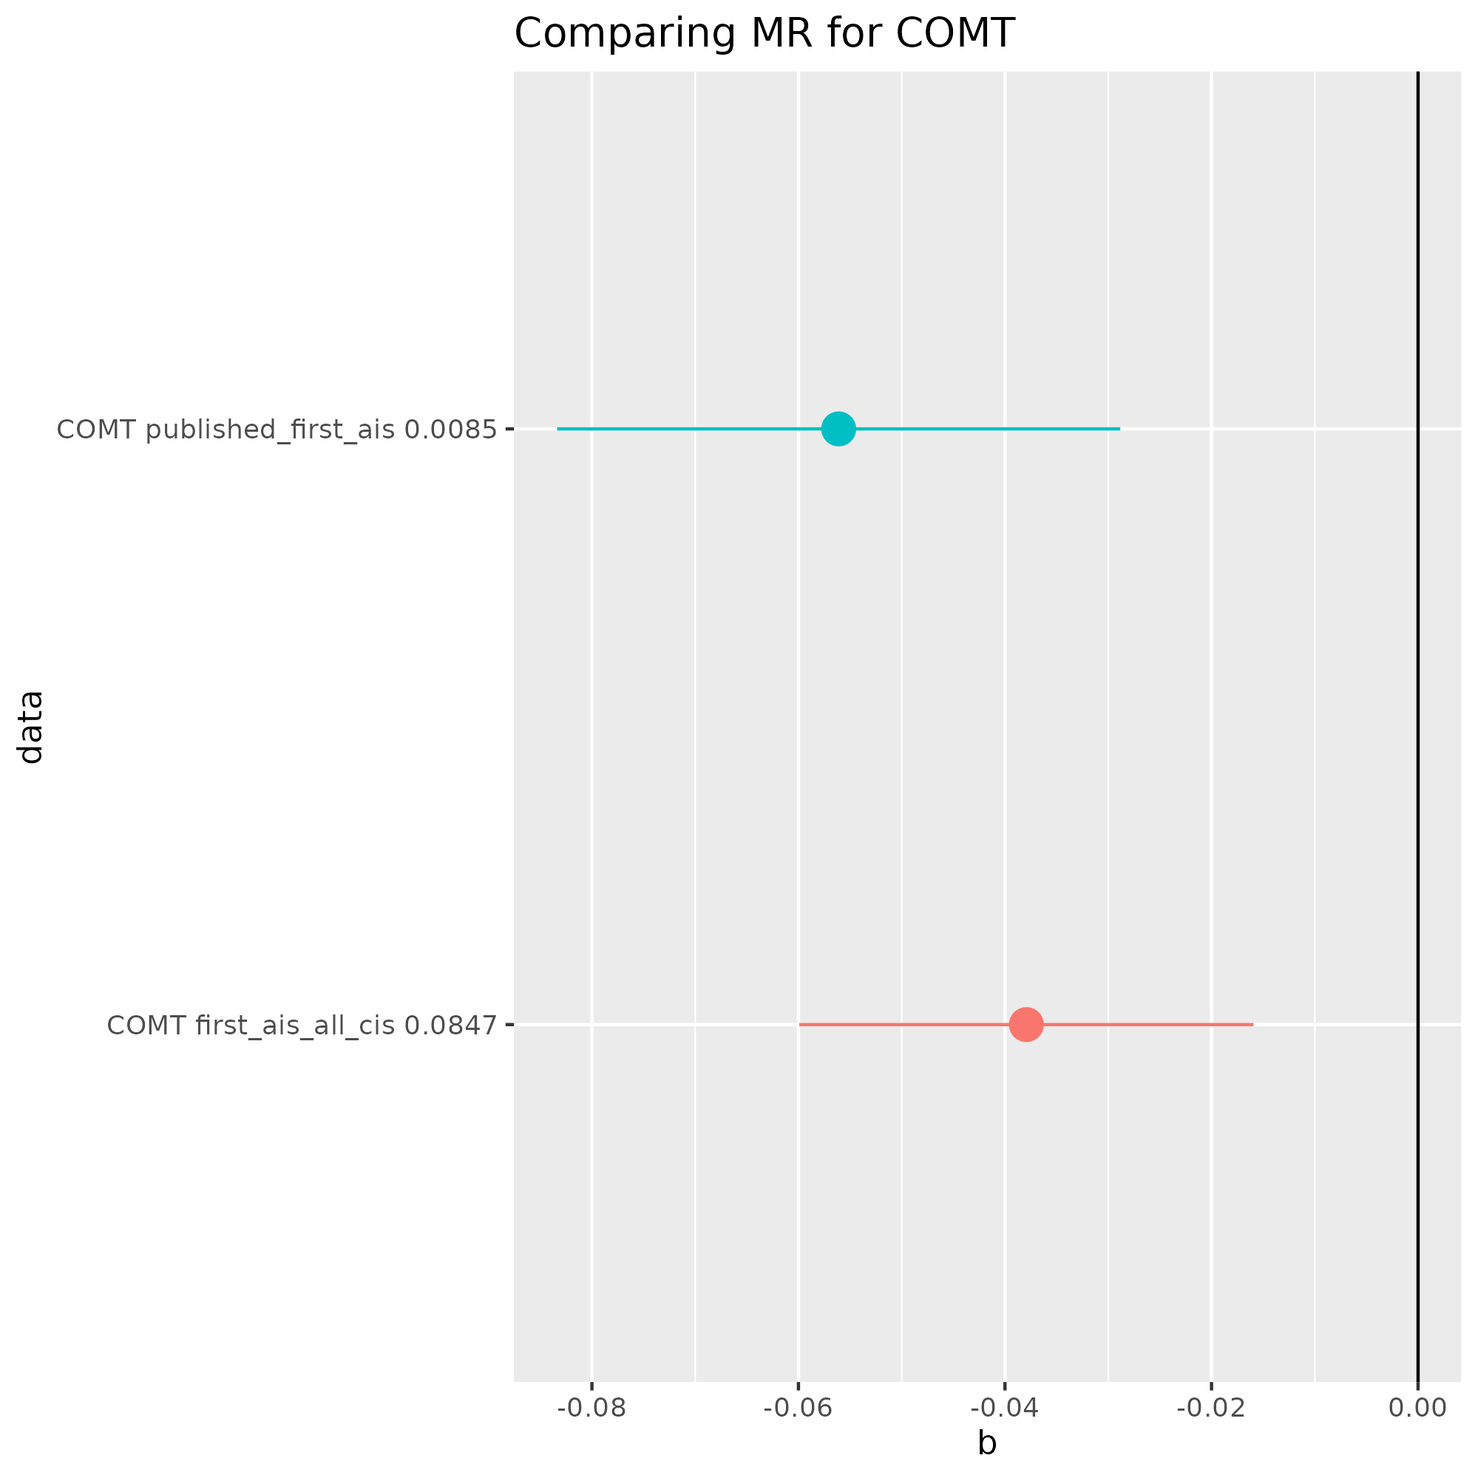
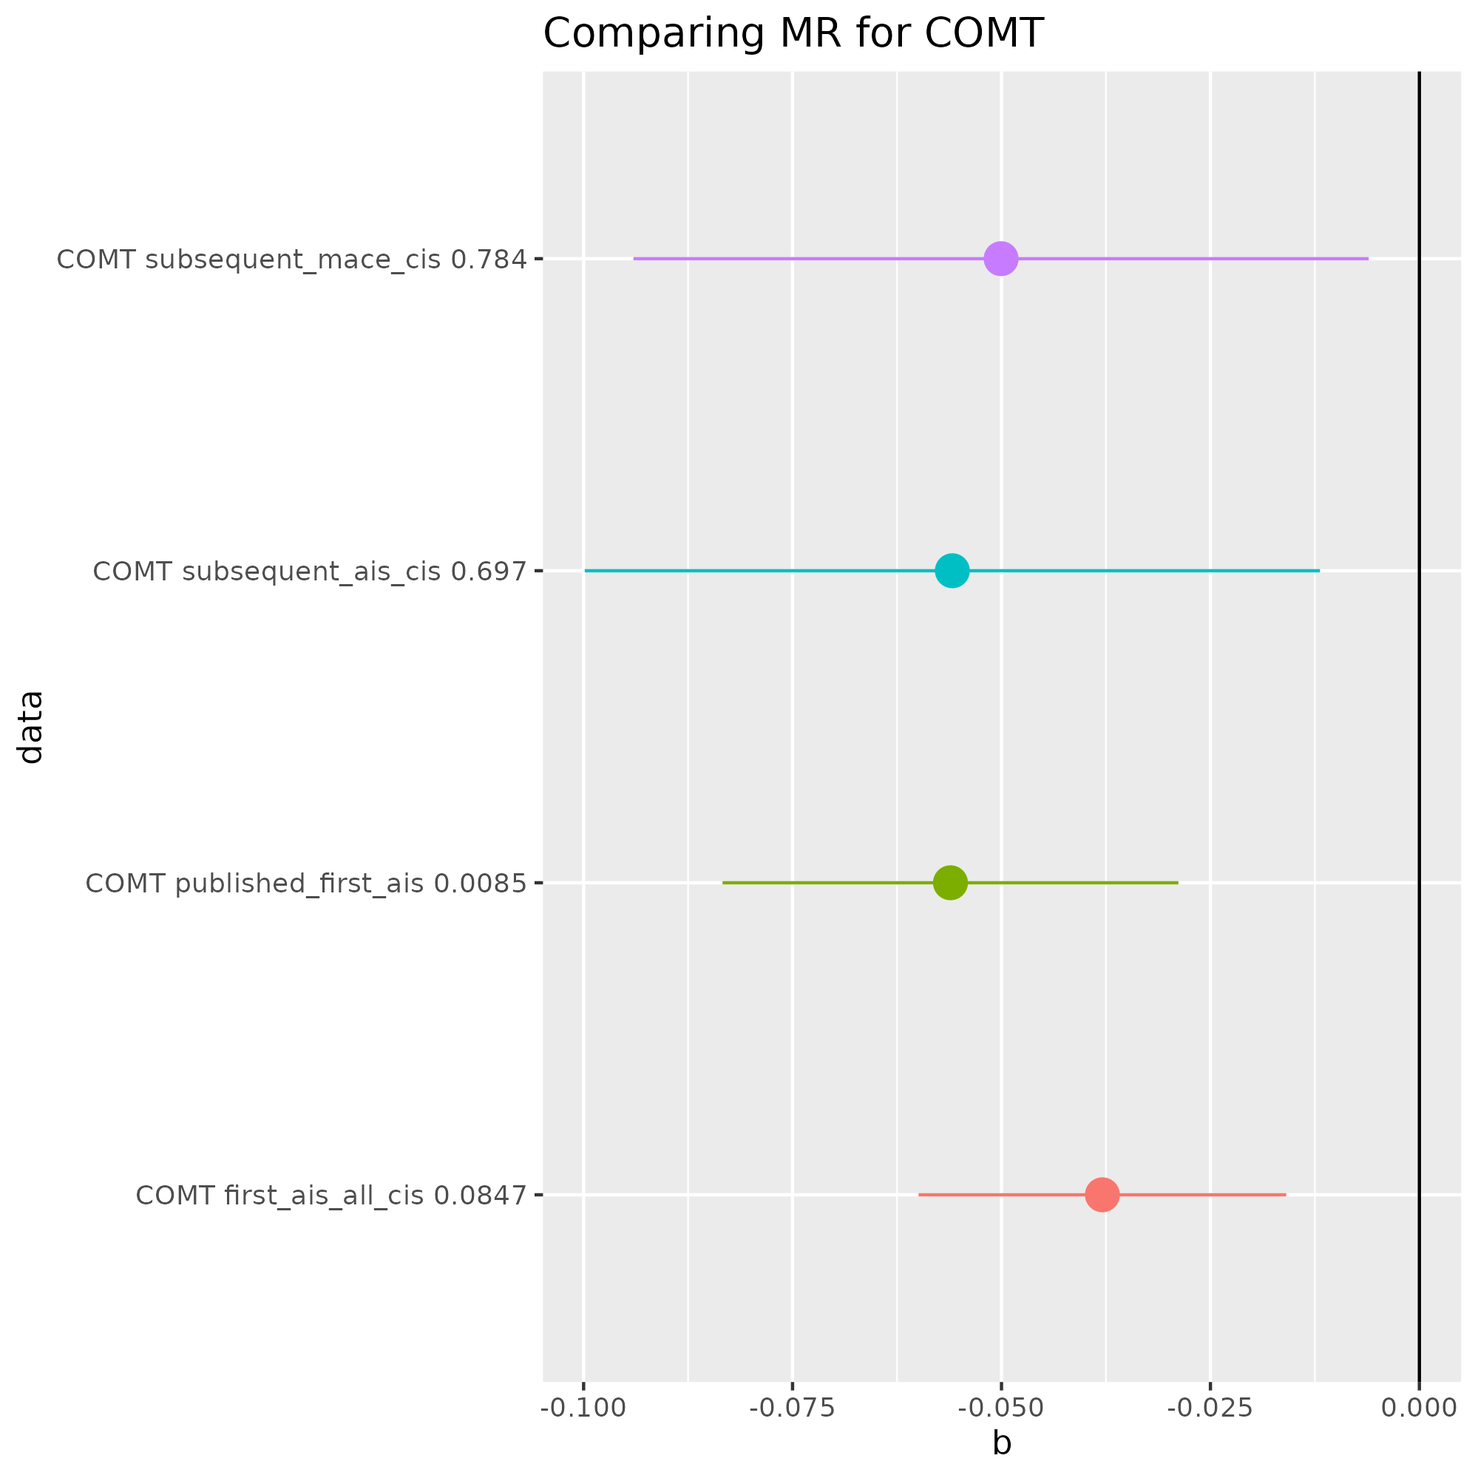
Updating forest plots on intresting_pqtls page

diff --git a/docs/interesting_pqtls.html b/docs/interesting_pqtls.html
@@ -14639,23 +14639,23 @@ body[data-format='mobile'] .jp-OutputArea-child .jp-OutputArea-output {
 <tbody>
 <tr>
   <td><img src="scratch/results/plots/forest_plots/SCARA5_mr.png" alt="alt" /></td>
-  <td><img src="scratch/results/plots/forest_plots/PFKFB2_mr.png" alt="alt" /></td>
+  <td><img src="scratch/results/plots/forest_plots/FURIN_mr.png" alt="alt" /></td>
 </tr>
 <tr>
   <td><img src="scratch/results/plots/forest_plots/MMP12_mr.png" alt="alt" /></td>
-  <td><img src="scratch/results/plots/forest_plots/KLK1_mr.png" alt="alt" /></td>
+  <td><img src="scratch/results/plots/forest_plots/GRK5_mr.png" alt="alt" /></td>
 </tr>
 <tr>
-  <td><img src="scratch/results/plots/forest_plots/GRK5_mr.png" alt="alt" /></td>
-  <td><img src="scratch/results/plots/forest_plots/FURIN_mr.png" alt="alt" /></td>
+  <td><img src="scratch/results/plots/forest_plots/KLK1_mr.png" alt="alt" /></td>
+  <td><img src="scratch/results/plots/forest_plots/PFKFB2_mr.png" alt="alt" /></td>
 </tr>
 <tr>
   <td><img src="scratch/results/plots/forest_plots/CST6_mr.png" alt="alt" /></td>
   <td><img src="scratch/results/plots/forest_plots/FGF5_mr.png" alt="alt" /></td>
 </tr>
 <tr>
-  <td><img src="scratch/results/plots/forest_plots/COMT_mr.png" alt="alt" /></td>
   <td><img src="scratch/results/plots/forest_plots/CGREF1_mr.png" alt="alt" /></td>
+  <td><img src="scratch/results/plots/forest_plots/COMT_mr.png" alt="alt" /></td>
 </tr>
 </tbody>
 </table>
@@ -14765,7 +14765,7 @@ body[data-format='mobile'] .jp-OutputArea-child .jp-OutputArea-output {
 <span class="n">all_together</span><span class="w"> </span><span class="o">&lt;-</span><span class="w"> </span><span class="nf">rbind</span><span class="p">(</span><span class="n">mr_incidence_ais_remix</span><span class="p">,</span><span class="w"> </span><span class="n">mr_published_ais_remix</span><span class="p">,</span><span class="w"> </span><span class="n">mr_mace</span><span class="p">,</span><span class="w"> </span><span class="n">mr_mace_dudbridge</span><span class="p">,</span>
 <span class="w">                      </span><span class="n">mr_mace_slopehunter</span><span class="p">,</span><span class="w"> </span><span class="n">mr_ais</span><span class="p">,</span><span class="w"> </span><span class="n">mr_ais_dudbridge</span><span class="p">,</span><span class="w"> </span><span class="n">mr_ais_slopehunter_remix</span><span class="p">)</span>
 
-<span class="n">just_incidence</span><span class="w"> </span><span class="o">&lt;-</span><span class="w"> </span><span class="nf">rbind</span><span class="p">(</span><span class="n">mr_incidence_ais_remix</span><span class="p">,</span><span class="w"> </span><span class="n">mr_published_ais_remix</span><span class="p">)</span>
+<span class="n">just_incidence</span><span class="w"> </span><span class="o">&lt;-</span><span class="w"> </span><span class="nf">rbind</span><span class="p">(</span><span class="n">mr_incidence_ais_remix</span><span class="p">,</span><span class="w"> </span><span class="n">mr_published_ais_remix</span><span class="p">,</span><span class="w"> </span><span class="n">mr_mace</span><span class="p">,</span><span class="w"> </span><span class="n">mr_ais</span><span class="p">)</span>
 
 <span class="nf">for </span><span class="p">(</span><span class="n">pqtl</span><span class="w"> </span><span class="n">in</span><span class="w"> </span><span class="n">subsequent_pqtls</span><span class="p">)</span><span class="w"> </span><span class="p">{</span>
 <span class="w">    </span><span class="n">pqtl_rows</span><span class="w"> </span><span class="o">&lt;-</span><span class="w"> </span><span class="n">all_together</span><span class="p">[</span><span class="n">all_together</span><span class="o">$</span><span class="n">exposure</span><span class="w"> </span><span class="o">==</span><span class="w"> </span><span class="n">pqtl</span><span class="p">,</span><span class="w"> </span><span class="p">]</span>
@@ -14774,8 +14774,88 @@ body[data-format='mobile'] .jp-OutputArea-child .jp-OutputArea-output {
 
 <span class="nf">for </span><span class="p">(</span><span class="n">pqtl</span><span class="w"> </span><span class="n">in</span><span class="w"> </span><span class="n">incidence_pqtls</span><span class="p">)</span><span class="w"> </span><span class="p">{</span>
 <span class="w">    </span><span class="n">pqtl_rows</span><span class="w"> </span><span class="o">&lt;-</span><span class="w"> </span><span class="n">just_incidence</span><span class="p">[</span><span class="n">just_incidence</span><span class="o">$</span><span class="n">exposure</span><span class="w"> </span><span class="o">==</span><span class="w"> </span><span class="n">pqtl</span><span class="p">,</span><span class="w"> </span><span class="p">]</span>
+<span class="w">    </span><span class="n">pqtl_rows</span><span class="w"> </span><span class="o">&lt;-</span><span class="w"> </span><span class="n">pqtl_rows</span><span class="p">[</span><span class="nf">with</span><span class="p">(</span><span class="n">pqtl_rows</span><span class="p">,</span><span class="w"> </span><span class="nf">order</span><span class="p">(</span><span class="n">outcome</span><span class="p">)),</span><span class="w"> </span><span class="p">]</span>
 <span class="w">    </span><span class="nf">create_forest_plot_mr_results</span><span class="p">(</span><span class="n">pqtl_rows</span><span class="p">,</span><span class="w"> </span><span class="nf">paste0</span><span class="p">(</span><span class="n">pqtl</span><span class="p">,</span><span class="w"> </span><span class="s">&quot;_mr&quot;</span><span class="p">),</span><span class="w"> </span><span class="nf">paste</span><span class="p">(</span><span class="s">&quot;Comparing MR for&quot;</span><span class="p">,</span><span class="w"> </span><span class="n">pqtl</span><span class="p">))</span>
 <span class="p">}</span>
+</pre></div>
+
+     </div>
+</div>
+</div>
+</div>
+
+</div><div class="jp-Cell jp-CodeCell jp-Notebook-cell jp-mod-noOutputs  ">
+<div class="jp-Cell-inputWrapper">
+<div class="jp-Collapser jp-InputCollapser jp-Cell-inputCollapser">
+</div>
+<div class="jp-InputArea jp-Cell-inputArea">
+<div class="jp-InputPrompt jp-InputArea-prompt">In&nbsp;[&nbsp;]:</div>
+<div class="jp-CodeMirrorEditor jp-Editor jp-InputArea-editor" data-type="inline">
+     <div class="CodeMirror cm-s-jupyter">
+<div class=" highlight hl-r"><pre><span></span><span class="c1">#Comparing different data sets!</span>
+<span class="nf">source</span><span class="p">(</span><span class="s">&quot;gwas_data_helpers.R&quot;</span><span class="p">)</span>
+<span class="n">incidence_pqtls</span><span class="w"> </span><span class="o">&lt;-</span><span class="w"> </span><span class="nf">c</span><span class="p">(</span><span class="s">&quot;FGF5&quot;</span><span class="p">,</span><span class="w"> </span><span class="s">&quot;ADAMTS13&quot;</span><span class="p">,</span><span class="w"> </span><span class="s">&quot;CD2AP&quot;</span><span class="p">,</span><span class="w"> </span><span class="s">&quot;CGREF1&quot;</span><span class="p">,</span><span class="w"> </span><span class="s">&quot;COMT&quot;</span><span class="p">,</span><span class="w"> </span><span class="s">&quot;CST6&quot;</span><span class="p">,</span><span class="w"> </span><span class="s">&quot;EGFR&quot;</span><span class="p">,</span><span class="w"> </span><span class="s">&quot;FURIN&quot;</span><span class="p">,</span><span class="w"> </span><span class="s">&quot;GRK5&quot;</span><span class="p">,</span><span class="w"> </span><span class="s">&quot;KLK1&quot;</span><span class="p">,</span><span class="w"> </span><span class="s">&quot;LAIR1&quot;</span><span class="p">,</span><span class="w"> </span><span class="s">&quot;MMP12&quot;</span><span class="p">,</span><span class="w"> </span><span class="s">&quot;PFKFB2&quot;</span><span class="p">,</span><span class="w"> </span><span class="s">&quot;SCARA5&quot;</span><span class="p">,</span><span class="w"> </span><span class="s">&quot;SH2B3&quot;</span><span class="p">,</span><span class="w"> </span><span class="s">&quot;SNCG&quot;</span><span class="p">,</span><span class="w"> </span><span class="s">&quot;VASN&quot;</span><span class="p">,</span><span class="w"> </span><span class="s">&quot;WARS&quot;</span><span class="p">,</span><span class="w"> </span><span class="s">&quot;CDKN1A&quot;</span><span class="p">)</span>
+<span class="n">subsequent_pqtls</span><span class="w"> </span><span class="o">&lt;-</span><span class="w"> </span><span class="nf">c</span><span class="p">(</span><span class="s">&quot;CCL27&quot;</span><span class="p">,</span><span class="w"> </span><span class="s">&quot;IL19&quot;</span><span class="p">,</span><span class="w"> </span><span class="s">&quot;TNFRSF14&quot;</span><span class="p">)</span>
+
+
+
+<span class="c1">#UKB PQTLs</span>
+<span class="n">ukb_published_ais</span><span class="w"> </span><span class="o">&lt;-</span><span class="w"> </span><span class="n">data.table</span><span class="o">::</span><span class="nf">fread</span><span class="p">(</span><span class="s">&quot;scratch/results/mr/mr_published_ais_cis_remix.tsv&quot;</span><span class="p">)</span>
+<span class="n">ukb_first_ais</span><span class="w"> </span><span class="o">&lt;-</span><span class="w"> </span><span class="n">data.table</span><span class="o">::</span><span class="nf">fread</span><span class="p">(</span><span class="s">&quot;scratch/results/mr/mr_first_ais_all_cis.tsv&quot;</span><span class="p">)</span>
+<span class="n">ukb_mr_mace</span><span class="w"> </span><span class="o">&lt;-</span><span class="w"> </span><span class="n">data.table</span><span class="o">::</span><span class="nf">fread</span><span class="p">(</span><span class="s">&quot;scratch/results/mr/mr_subsequent_mace_cis_updated.tsv&quot;</span><span class="p">)</span>
+<span class="n">ukb_mr_mace_slopehunter</span><span class="w"> </span><span class="o">&lt;-</span><span class="w"> </span><span class="n">data.table</span><span class="o">::</span><span class="nf">fread</span><span class="p">(</span><span class="s">&quot;scratch/results/mr/mr_subsequent_mace_slopehunter_cis.tsv&quot;</span><span class="p">)</span>
+<span class="n">ukb_mr_ais</span><span class="w"> </span><span class="o">&lt;-</span><span class="w"> </span><span class="n">data.table</span><span class="o">::</span><span class="nf">fread</span><span class="p">(</span><span class="s">&quot;scratch/results/mr/mr_subsequent_ais_cis_remix.tsv&quot;</span><span class="p">)</span>
+<span class="n">ukb_mr_ais_slopehunter</span><span class="w"> </span><span class="o">&lt;-</span><span class="w"> </span><span class="n">data.table</span><span class="o">::</span><span class="nf">fread</span><span class="p">(</span><span class="s">&quot;scratch/results/mr/mr_subsequent_ais_sh_cis_remix.tsv&quot;</span><span class="p">)</span>
+
+<span class="c1">#ARIC pQTLS</span>
+<span class="n">aric_first_ais</span><span class="w"> </span><span class="o">&lt;-</span><span class="w"> </span><span class="n">data.table</span><span class="o">::</span><span class="nf">fread</span><span class="p">(</span><span class="s">&quot;scratch/results/mr/aric/first_ais_eur.tsv&quot;</span><span class="p">)</span>
+
+<span class="n">aric_mr_mace_eur</span><span class="w"> </span><span class="o">&lt;-</span><span class="w"> </span><span class="n">data.table</span><span class="o">::</span><span class="nf">fread</span><span class="p">(</span><span class="s">&quot;scratch/results/mr/aric/mr_subsequent_mace_eur.tsv&quot;</span><span class="p">)</span>
+<span class="n">aric_mr_mace_eur_slopehunter</span><span class="w"> </span><span class="o">&lt;-</span><span class="w"> </span><span class="n">data.table</span><span class="o">::</span><span class="nf">fread</span><span class="p">(</span><span class="s">&quot;scratch/results/mr/aric/mr_subsequent_mace_eur_slopehunter.tsv&quot;</span><span class="p">)</span>
+<span class="n">aric_mr_ais_eur</span><span class="w"> </span><span class="o">&lt;-</span><span class="w"> </span><span class="n">data.table</span><span class="o">::</span><span class="nf">fread</span><span class="p">(</span><span class="s">&quot;scratch/results/mr/aric/mr_subsequent_ais_eur.tsv&quot;</span><span class="p">)</span>
+<span class="n">aric_mr_ais_eur_slopehunter</span><span class="w"> </span><span class="o">&lt;-</span><span class="w"> </span><span class="n">data.table</span><span class="o">::</span><span class="nf">fread</span><span class="p">(</span><span class="s">&quot;scratch/results/mr/aric/mr_subsequent_ais_eur_slopehunter.tsv&quot;</span><span class="p">)</span>
+
+
+<span class="n">all_together</span><span class="w"> </span><span class="o">&lt;-</span><span class="w"> </span><span class="nf">rbind</span><span class="p">(</span><span class="n">ukb_mr_mace</span><span class="p">,</span><span class="w"> </span><span class="n">ukb_mr_mace_slopehunter</span><span class="p">,</span><span class="w"> </span><span class="n">ukb_mr_ais</span><span class="p">,</span><span class="w"> </span><span class="n">ukb_mr_ais_slopehunter</span><span class="p">,</span>
+<span class="w">                      </span><span class="n">aric_mr_mace_eur</span><span class="p">,</span><span class="w"> </span><span class="n">aric_mr_mace_eur_slopehunter</span><span class="p">,</span><span class="w"> </span><span class="n">aric_mr_ais_eur</span><span class="p">,</span><span class="w"> </span><span class="n">aric_mr_ais_eur_slopehunter</span><span class="p">)</span>
+
+<span class="n">just_incidence</span><span class="w"> </span><span class="o">&lt;-</span><span class="w"> </span><span class="nf">rbind</span><span class="p">(</span><span class="n">aric_first_ais</span><span class="p">,</span><span class="w"> </span><span class="n">ukb_first_ais</span><span class="p">)</span>
+
+<span class="nf">for </span><span class="p">(</span><span class="n">pqtl</span><span class="w"> </span><span class="n">in</span><span class="w"> </span><span class="n">incidence_pqtls</span><span class="p">)</span><span class="w"> </span><span class="p">{</span>
+<span class="w">    </span><span class="n">pqtl_rows</span><span class="w"> </span><span class="o">&lt;-</span><span class="w"> </span><span class="n">just_incidence</span><span class="p">[</span><span class="n">just_incidence</span><span class="o">$</span><span class="n">exposure</span><span class="w"> </span><span class="o">==</span><span class="w"> </span><span class="n">pqtl</span><span class="p">,</span><span class="w"> </span><span class="p">]</span>
+<span class="w">    </span><span class="nf">create_forest_plot_mr_results</span><span class="p">(</span><span class="n">pqtl_rows</span><span class="p">,</span><span class="w"> </span><span class="nf">paste0</span><span class="p">(</span><span class="n">pqtl</span><span class="p">,</span><span class="w"> </span><span class="s">&quot;_compare_pqtl_mr&quot;</span><span class="p">),</span><span class="w"> </span><span class="nf">paste</span><span class="p">(</span><span class="s">&quot;Comparing pQTL Datasets for&quot;</span><span class="p">,</span><span class="w"> </span><span class="n">pqtl</span><span class="p">))</span>
+<span class="p">}</span>
+
+<span class="nf">for </span><span class="p">(</span><span class="n">pqtl</span><span class="w"> </span><span class="n">in</span><span class="w"> </span><span class="n">subsequent_pqtls</span><span class="p">)</span><span class="w"> </span><span class="p">{</span>
+<span class="w">    </span><span class="n">pqtl_rows</span><span class="w"> </span><span class="o">&lt;-</span><span class="w"> </span><span class="n">all_together</span><span class="p">[</span><span class="n">all_together</span><span class="o">$</span><span class="n">exposure</span><span class="w"> </span><span class="o">==</span><span class="w"> </span><span class="n">pqtl</span><span class="p">,</span><span class="w"> </span><span class="p">]</span>
+<span class="w">    </span><span class="nf">create_forest_plot_mr_results</span><span class="p">(</span><span class="n">pqtl_rows</span><span class="p">,</span><span class="w"> </span><span class="nf">paste0</span><span class="p">(</span><span class="n">pqtl</span><span class="p">,</span><span class="w"> </span><span class="s">&quot;_compare_pqtl_mr&quot;</span><span class="p">),</span><span class="w"> </span><span class="nf">paste</span><span class="p">(</span><span class="s">&quot;Comparing pQTL Datasets for&quot;</span><span class="p">,</span><span class="w"> </span><span class="n">pqtl</span><span class="p">))</span>
+<span class="p">}</span>
+</pre></div>
+
+     </div>
+</div>
+</div>
+</div>
+
+</div><div class="jp-Cell jp-CodeCell jp-Notebook-cell jp-mod-noOutputs  ">
+<div class="jp-Cell-inputWrapper">
+<div class="jp-Collapser jp-InputCollapser jp-Cell-inputCollapser">
+</div>
+<div class="jp-InputArea jp-Cell-inputArea">
+<div class="jp-InputPrompt jp-InputArea-prompt">In&nbsp;[&nbsp;]:</div>
+<div class="jp-CodeMirrorEditor jp-Editor jp-InputArea-editor" data-type="inline">
+     <div class="CodeMirror cm-s-jupyter">
+<div class=" highlight hl-r"><pre><span></span><span class="c1">## Comparing pQTLs data sets across subsequent</span>
+
+<span class="n">CCL27</span><span class="w"> </span><span class="o">|</span><span class="w"> </span><span class="n">IL19</span><span class="w"> </span><span class="o">|</span><span class="w"> </span><span class="n">TNFRSF14</span>
+<span class="o">-</span><span class="w"> </span><span class="o">|</span><span class="w"> </span><span class="o">-</span><span class="w"> </span><span class="o">|</span><span class="w"> </span><span class="o">-</span>
+<span class="o">!</span><span class="p">[</span><span class="n">alt</span><span class="p">](</span><span class="n">scratch</span><span class="o">/</span><span class="n">results</span><span class="o">/</span><span class="n">plots</span><span class="o">/</span><span class="n">forest_plots</span><span class="o">/</span><span class="n">CCL27_compare_pqtl_mr.png</span><span class="p">)</span><span class="w"> </span><span class="o">|</span><span class="w"> </span><span class="o">!</span><span class="p">[</span><span class="n">alt</span><span class="p">](</span><span class="n">scratch</span><span class="o">/</span><span class="n">results</span><span class="o">/</span><span class="n">plots</span><span class="o">/</span><span class="n">forest_plots</span><span class="o">/</span><span class="n">IL19_compare_pqtl_mr.png</span><span class="p">)</span><span class="w"> </span><span class="o">|</span><span class="w"> </span><span class="o">!</span><span class="p">[</span><span class="n">alt</span><span class="p">](</span><span class="n">scratch</span><span class="o">/</span><span class="n">results</span><span class="o">/</span><span class="n">plots</span><span class="o">/</span><span class="n">forest_plots</span><span class="o">/</span><span class="n">TNFRSF14_compare_pqtl_mr.png</span><span class="p">)</span>
+
+
+<span class="n">.</span><span class="w"> </span><span class="o">|</span><span class="w"> </span><span class="n">.</span>
+<span class="o">-</span><span class="w"> </span><span class="o">|</span><span class="w"> </span><span class="o">-</span><span class="w"> </span>
+<span class="o">!</span><span class="p">[</span><span class="n">alt</span><span class="p">](</span><span class="n">scratch</span><span class="o">/</span><span class="n">results</span><span class="o">/</span><span class="n">plots</span><span class="o">/</span><span class="n">forest_plots</span><span class="o">/</span><span class="n">EGFR_compare_pqtl_mr.png</span><span class="p">)</span><span class="w"> </span><span class="o">|</span><span class="w"> </span><span class="o">!</span><span class="p">[</span><span class="n">alt</span><span class="p">](</span><span class="n">scratch</span><span class="o">/</span><span class="n">results</span><span class="o">/</span><span class="n">plots</span><span class="o">/</span><span class="n">forest_plots</span><span class="o">/</span><span class="n">SCARA5_mr.png</span><span class="p">)</span>
+<span class="o">!</span><span class="p">[</span><span class="n">alt</span><span class="p">](</span><span class="n">scratch</span><span class="o">/</span><span class="n">results</span><span class="o">/</span><span class="n">plots</span><span class="o">/</span><span class="n">forest_plots</span><span class="o">/</span><span class="n">VASN_compare_pqtl_mr.png</span><span class="p">)</span><span class="w"> </span><span class="o">|</span><span class="w"> </span><span class="o">!</span><span class="p">[</span><span class="n">alt</span><span class="p">](</span><span class="n">scratch</span><span class="o">/</span><span class="n">results</span><span class="o">/</span><span class="n">plots</span><span class="o">/</span><span class="n">forest_plots</span><span class="o">/</span><span class="n">WARS_mr.png</span><span class="p">)</span>
 </pre></div>
 
      </div>
